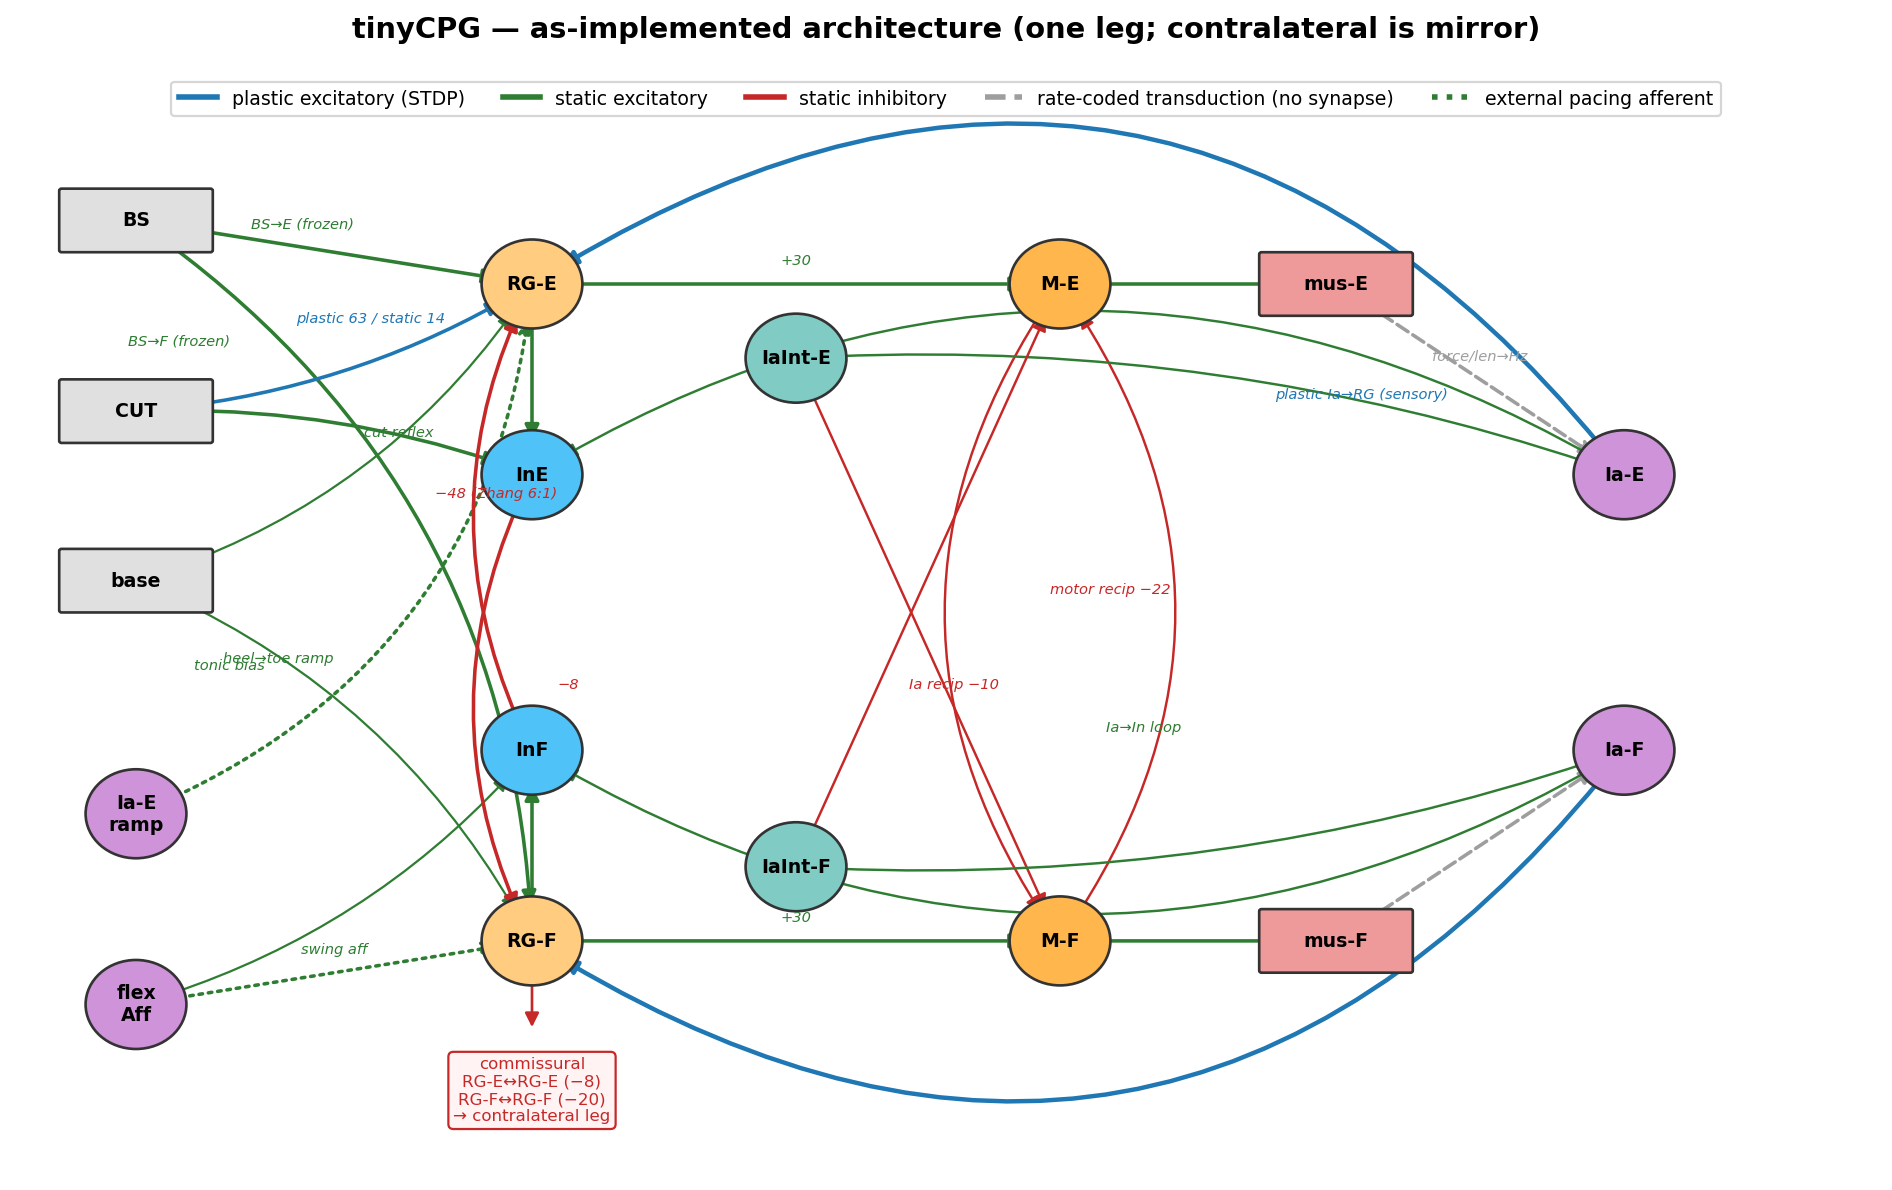
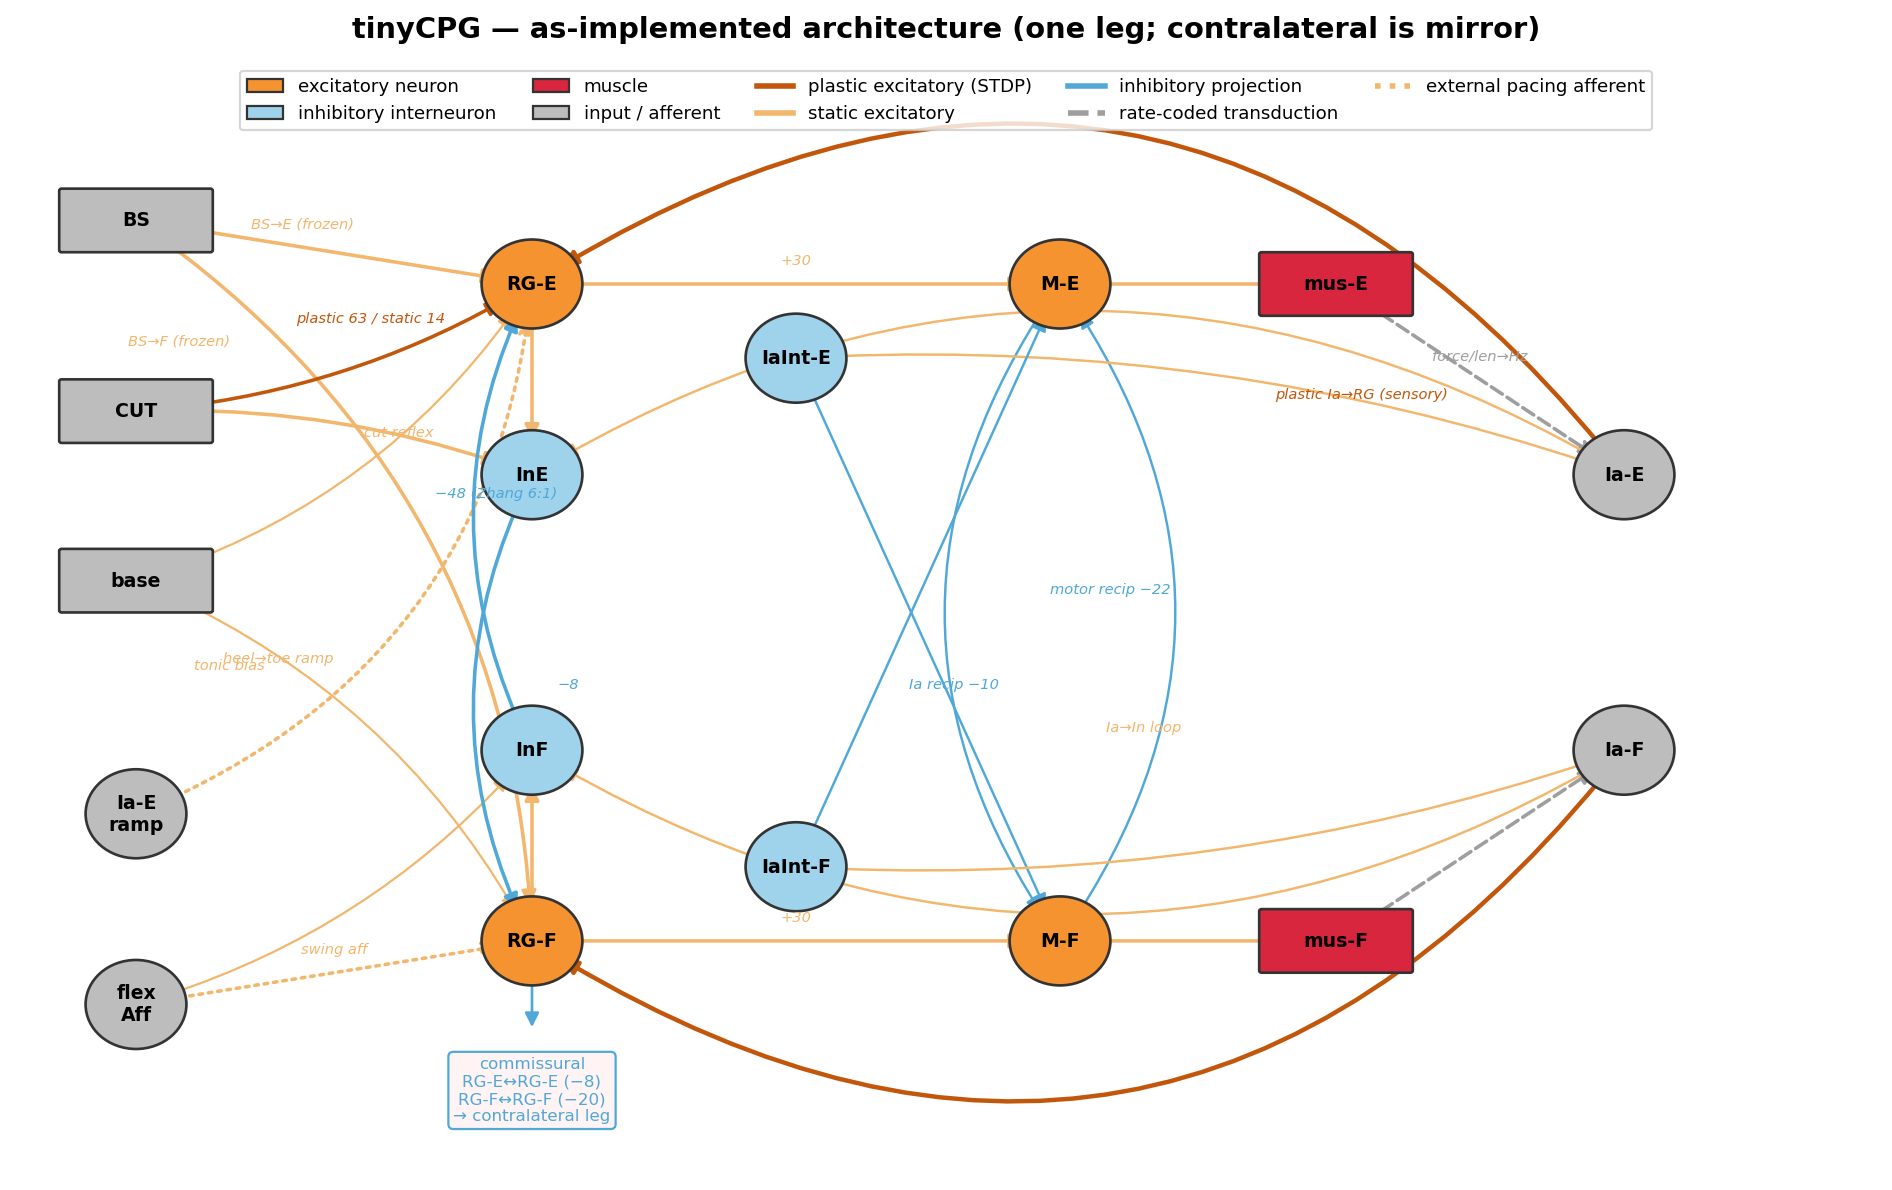
Bio-plausibility: static-weight heterogeneity + optional single CUT pathway; recolor diagram
- --static-weight-cv: per-connection lognormal heterogeneity on all static
  synapses (mean/sign preserved), since biological weights are lognormal
  (Song 2005; Buzsaki & Mizuseki 2014), not delta-valued.
- --cut-static-w: override/drop the fixed CUT->RG-E co-activation pathway
  (set 0 -> single plastic cutaneous projection).
- HDF5 attrs static_weight_cv / cut_static_w recorded.
- cpg_architecture_diagram.py: bio-meaningful colors (orange excitatory
  nodes; light/dark orange static/STDP excitatory projections; light blue
  inhibitory; red muscle; grey inputs).

Local validation (debug-small sensory, 25s): both changes preserve and
slightly IMPROVE counter-phase (corrF -0.978 baseline -> -0.989 het ->
-0.985 both; corrRG -0.813 -> -0.872 both). The static CUT bootstrap is
not needed in the paced/sensory config.

diff --git a/cpg_2legs_fast.py b/cpg_2legs_fast.py
@@ -451,6 +451,15 @@ def main():
                          "(preserves counter-phase); higher lets the sensory loop carry more drive.")
     ap.add_argument("--p-ia2rg", type=float, default=P_IA2RG_STDP,
                     help="MOD_IA_RG_STDP: connection probability of the Ia->RG projection.")
+    ap.add_argument("--static-weight-cv", type=float, default=0.0,
+                    help="BIO-PLAUSIBILITY: if >0, give every static-synapse weight per-connection "
+                         "lognormal heterogeneity with this coefficient of variation (mean and sign "
+                         "preserved). 0 = delta weights (legacy). Cortical/spinal weights are lognormal "
+                         "(Song 2005; Buzsaki & Mizuseki 2014); CV~0.5-1.0 is typical.")
+    ap.add_argument("--cut-static-w", type=float, default=None,
+                    help="BIO-PLAUSIBILITY: override W_CUT2RGE_STATIC (the fixed cutaneous co-activation "
+                         "pathway parallel to the plastic CUT->RG-E). Set 0 to DROP it entirely, leaving a "
+                         "single plastic cutaneous projection. Default keeps the 14 pA bootstrap pathway.")
     ap.add_argument("--stdp-winit-dist", type=str, default="lognormal",
                     choices=["const", "normal", "lognormal", "lognormal_cv"],
                     help="Initial weight distribution for STDP synapses. const=all weights=W0_IN; normal/lognormal draw per-connection weights.")
@@ -1123,8 +1132,11 @@ def main():
         # MOD_COACT: static CUT → RGE pathway — present from t=0 before STDP bootstraps.
         # CUT 100 Hz × W=14 × ~35 conns alone is subthreshold; combined with BS 60 Hz it
         # crosses threshold (bio-plausible co-activation gate for rat CPG).
-        nest.Connect(L["cut_in"], L["rg_e"], conn_spec={"rule": "pairwise_bernoulli", "p": P_CUT2RGE_STATIC},
-                     syn_spec={"synapse_model": "static_synapse", "weight": W_CUT2RGE_STATIC, "delay": delay["cut_to_rg"]})
+        # --cut-static-w overrides the weight; 0 drops the pathway (single plastic CUT).
+        _cut_static_w = W_CUT2RGE_STATIC if getattr(args, "cut_static_w", None) is None else float(args.cut_static_w)
+        if _cut_static_w != 0.0:
+            nest.Connect(L["cut_in"], L["rg_e"], conn_spec={"rule": "pairwise_bernoulli", "p": P_CUT2RGE_STATIC},
+                         syn_spec={"synapse_model": "static_synapse", "weight": _cut_static_w, "delay": delay["cut_to_rg"]})
 
         # MOD_FREEZE_BS: with --freeze-bs-rg these are static (no STDP), held at the weak
         # lognormal init so BS is a fixed tonic drive and the learning shifts to Ia->RG.
@@ -1266,6 +1278,27 @@ def main():
                      syn_spec={"synapse_model": "static_synapse", "weight": W_COMM_E_INH, "delay": delay["commissural"]})
         nest.Connect(RR["rg_e"], LL["rg_e"], conn_spec={"rule": "pairwise_bernoulli", "p": P_COMM_E},
                      syn_spec={"synapse_model": "static_synapse", "weight": W_COMM_E_INH, "delay": delay["commissural"]})
+
+    # ---- BIO-PLAUSIBILITY: lognormal weight heterogeneity on static synapses ----
+    # Biological synaptic weights are heterogeneous (lognormal: Song 2005; Buzsaki &
+    # Mizuseki 2014), not delta-valued. With --static-weight-cv>0 we multiply every
+    # static-synapse weight by a per-connection lognormal factor (mean 1, given CV),
+    # preserving each projection's mean and sign. Applied before the dump and sim.
+    static_cv = float(getattr(args, "static_weight_cv", 0.0) or 0.0)
+    if static_cv > 0.0:
+        try:
+            sconns = nest.GetConnections(synapse_model="static_synapse")
+            if sconns is not None and len(sconns) > 0:
+                w = np.asarray(nest.GetStatus(sconns, "weight"), dtype=float)
+                sigma = float(np.sqrt(np.log(1.0 + static_cv * static_cv)))
+                mu = -0.5 * sigma * sigma  # so E[factor]=1
+                factor = np.random.default_rng(int(args.seed) + 777).lognormal(mu, sigma, size=w.size)
+                nest.SetStatus(sconns, [{"weight": float(wi * fi)} for wi, fi in zip(w, factor)])
+                if rank == 0:
+                    print(f"[BioPlaus] static-weight heterogeneity CV={static_cv} applied to {w.size} static synapses")
+        except Exception as e:
+            if rank == 0:
+                print(f"[BioPlaus] static heterogeneity skipped: {e}")
 
     # ---- optional: dump per-connection weight & delay distributions, then exit ----
     if str(getattr(args, "dump_connectivity", "")).strip():
@@ -1813,6 +1846,9 @@ def main():
         h5.attrs["stdp_ia_rg"] = bool(getattr(args, "stdp_ia_rg", False))       # MOD_IA_RG_STDP
         h5.attrs["wmax_ia"] = float(getattr(args, "wmax_ia", WMAX_IA))
         h5.attrs["p_ia2rg"] = float(getattr(args, "p_ia2rg", P_IA2RG_STDP))
+        h5.attrs["static_weight_cv"] = float(getattr(args, "static_weight_cv", 0.0) or 0.0)
+        h5.attrs["cut_static_w"] = (W_CUT2RGE_STATIC if getattr(args, "cut_static_w", None) is None
+                                    else float(args.cut_static_w))
         h5.attrs["local_threads"] = int(args.threads)
         h5.attrs["mpi_processes"] = int(nproc)
         h5.attrs["save_weights_mode"] = str(args.save_weights)

diff --git a/cpg_architecture_diagram.py b/cpg_architecture_diagram.py
@@ -7,19 +7,31 @@ a stub). Drawn directly from the projection list verified by
 --dump-connectivity, so it reflects what the code actually builds, not an
 idealised schematic.
 
-Colour key: blue = plastic excitatory; green = static excitatory;
-red = static inhibitory; grey dashed = rate-coded transduction (not a synapse).
+Colour key (bio-meaningful):
+  excitatory neurons      -> orange nodes
+  excitatory projections  -> light orange (static) / dark orange (STDP/plastic)
+  inhibitory neurons+proj -> light blue
+  muscles                 -> red
+  inputs/afferents        -> grey   (rate-coded transduction = grey dashed)
 """
 import matplotlib; matplotlib.use("Agg")
 import matplotlib.pyplot as plt
 from matplotlib.patches import FancyArrowPatch, FancyBboxPatch, Circle
 
-EXC_P="#1f77b4"; EXC_S="#2e7d32"; INH="#c62828"; RATE="#9e9e9e"
+EXC_P="#C2570B"   # STDP / plastic excitatory projection (dark orange)
+EXC_S="#F2B66D"   # static excitatory projection (light orange)
+INH="#4FA8D8"     # inhibitory neuron + projection (light blue)
+RATE="#9e9e9e"    # rate-coded transduction / input grey
 
 def node(ax, xy, label, kind="rg", r=0.42):
     x,y=xy
-    fc={"rg":"#ffcc80","in":"#4fc3f7","m":"#ffb74d","mus":"#ef9a9a",
-        "drive":"#e0e0e0","aff":"#ce93d8","iaint":"#80cbc4"}[kind]
+    fc={"rg":"#F59331",     # excitatory neuron (orange)
+        "m":"#F59331",      # excitatory motoneuron (orange)
+        "in":"#9FD3EC",     # inhibitory interneuron (light blue)
+        "iaint":"#9FD3EC",  # Ia inhibitory interneuron (light blue)
+        "mus":"#D7263D",    # muscle (red)
+        "drive":"#BdBdBd",  # input / descending drive (grey)
+        "aff":"#BdBdBd"}[kind]  # afferent input (grey)
     if kind in ("mus","drive"):
         b=FancyBboxPatch((x-0.62,y-0.28),1.24,0.56,boxstyle="round,pad=0.02",
                          fc=fc,ec="#333",lw=1.2,zorder=3)
@@ -102,12 +114,17 @@ edge(ax,P["RGF"],(4.3,1.05),INH,rad=0.0,lw=1.2)
 
 # legend
 from matplotlib.lines import Line2D
-leg=[Line2D([0],[0],color=EXC_P,lw=2.5,label="plastic excitatory (STDP)"),
+from matplotlib.patches import Patch
+leg=[Patch(fc="#F59331",ec="#333",label="excitatory neuron"),
+     Patch(fc="#9FD3EC",ec="#333",label="inhibitory interneuron"),
+     Patch(fc="#D7263D",ec="#333",label="muscle"),
+     Patch(fc="#BdBdBd",ec="#333",label="input / afferent"),
+     Line2D([0],[0],color=EXC_P,lw=2.5,label="plastic excitatory (STDP)"),
      Line2D([0],[0],color=EXC_S,lw=2.5,label="static excitatory"),
-     Line2D([0],[0],color=INH,lw=2.5,label="static inhibitory"),
-     Line2D([0],[0],color=RATE,lw=2.5,ls="--",label="rate-coded transduction (no synapse)"),
+     Line2D([0],[0],color=INH,lw=2.5,label="inhibitory projection"),
+     Line2D([0],[0],color=RATE,lw=2.5,ls="--",label="rate-coded transduction"),
      Line2D([0],[0],color=EXC_S,lw=2.5,ls=":",label="external pacing afferent")]
-ax.legend(handles=leg,loc="upper center",ncol=5,fontsize=8.5,frameon=True,bbox_to_anchor=(0.5,1.04))
+ax.legend(handles=leg,loc="upper center",ncol=5,fontsize=8.2,frameon=True,bbox_to_anchor=(0.5,1.05))
 ax.set_title("tinyCPG — as-implemented architecture (one leg; contralateral is mirror)",
              fontsize=13,fontweight="bold",y=1.06)
 fig.savefig("plots/paper/fig_architecture_implemented.png",dpi=160,bbox_inches="tight")
